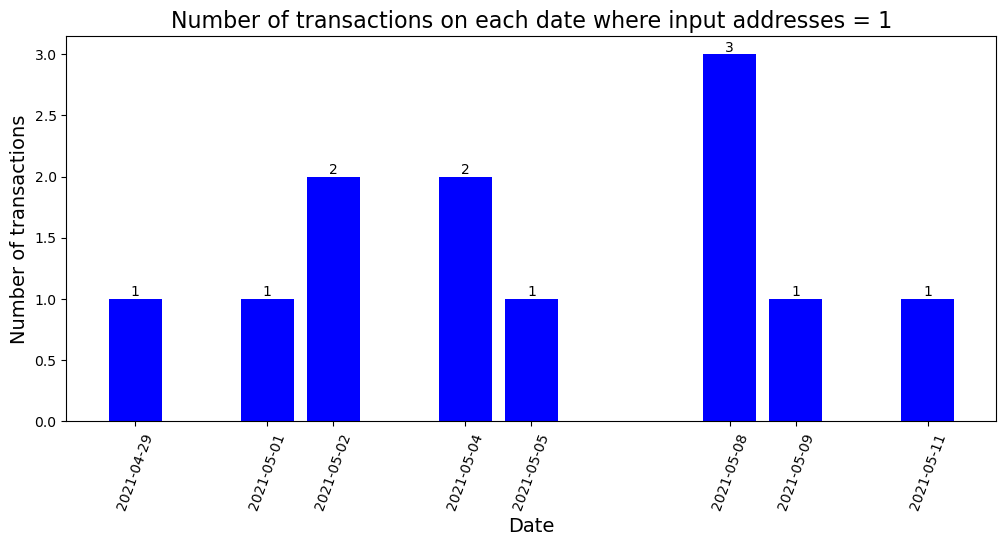
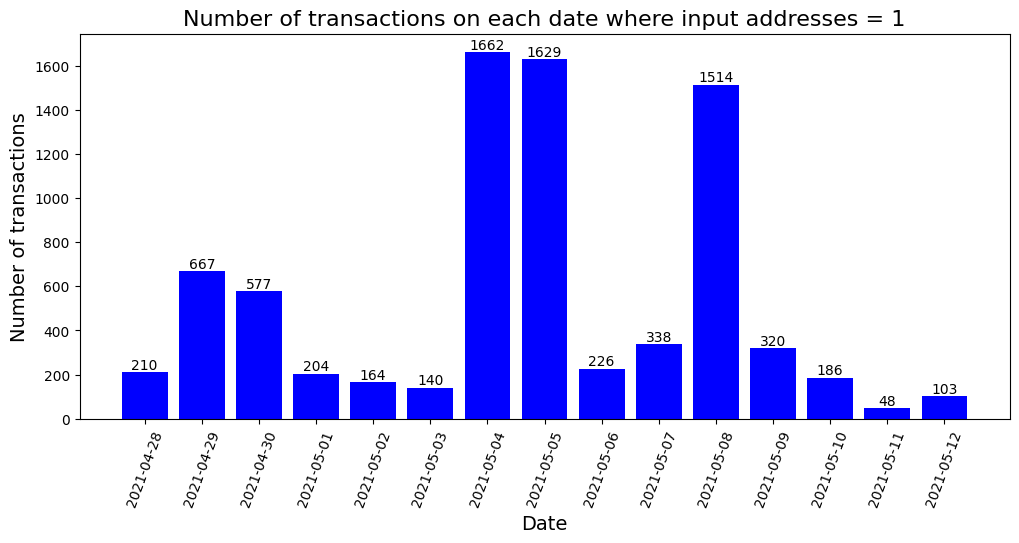
log files for 14-days-data file

Changed region(s): [[0.0, 0.0, 1.0, 1.0], [0.0308, 0.0884, 0.0924, 0.1473]]

diff --git a/IoTa/src/mains/main_preprocessing.py b/IoTa/src/mains/main_preprocessing.py
@@ -6,8 +6,8 @@ from utilities import utils, preprocessing
 
 
 CONFIG = {
-    #"data_path": "../data/first_14_days_UTXO_txs_of_IOTA.csv",
-    "data_path": "../data/sample_data.csv",
+    "data_path": "../data/first_14_days_UTXO_txs_of_IOTA.csv",
+    # "data_path": "../data/sample_data.csv",
     "figure_dir": "../logs/figures/",
     "generated_files": "../logs/generated_files/"
 }
